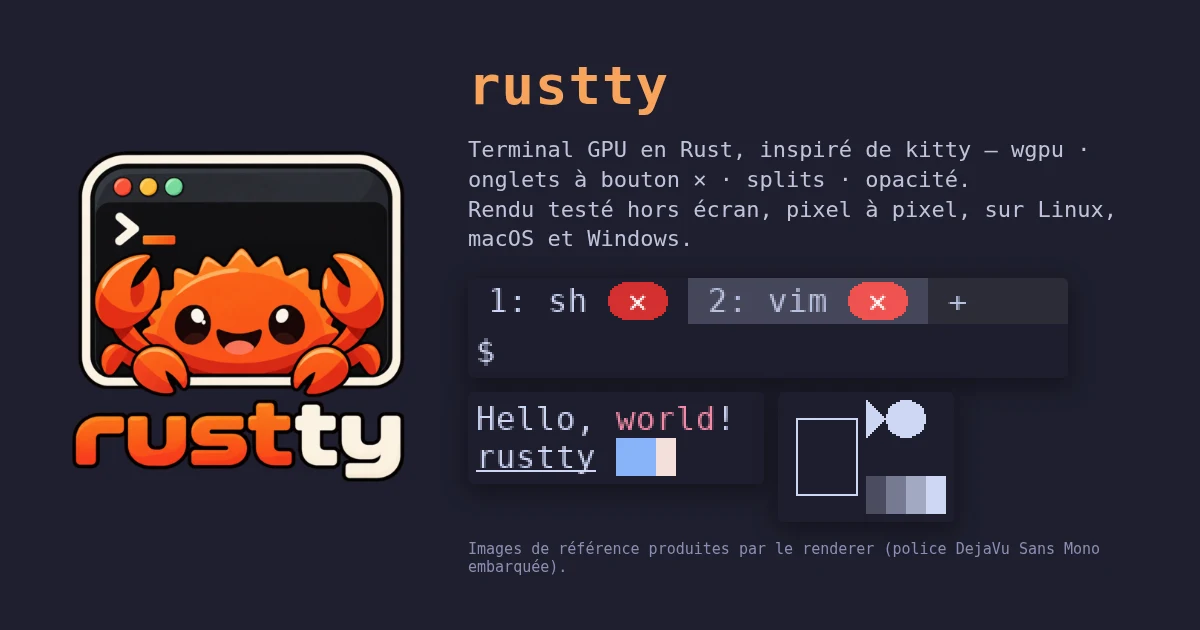
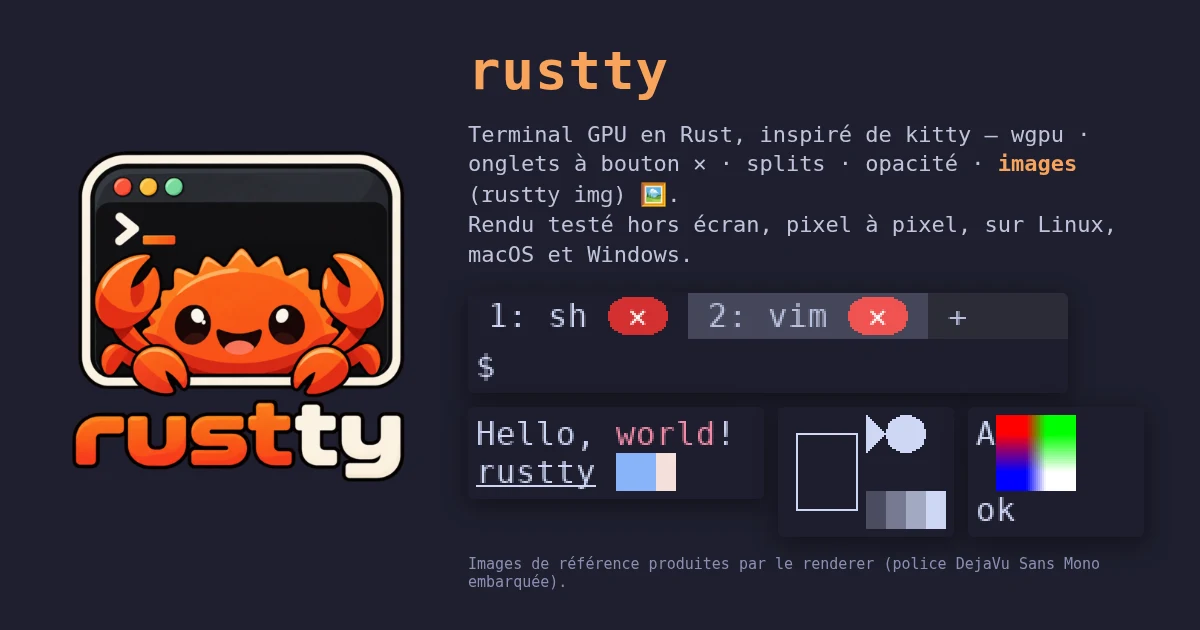
Vitrine : rustty gagne les images (protocole graphique kitty) et une capture fraîche

diff --git a/index.html b/index.html
@@ -971,9 +971,9 @@
           </div>
           <span class="fc-lang lang-rust"><span class="lang-dot"></span> Rust</span>
         </div>
-        <img class="fc-shot" src="shots/rustty.webp" alt="rustty — la mascotte crabe à côté des images de référence du renderer : barre d'onglets avec boutons ✕, Hello world, lignes de boîte et powerline" loading="lazy">
+        <img class="fc-shot" src="shots/rustty.webp" alt="rustty — la mascotte crabe à côté des images de référence du renderer : barre d'onglets avec boutons ✕, Hello world, lignes de boîte et powerline, et une image affichée par le protocole graphique kitty" loading="lazy">
         <div class="fc-title">rustty 🦀</div>
-        <div class="fc-desc">Émulateur de terminal GPU en Rust, inspiré de kitty — avec ce qui me manquait : des onglets à <strong>vrai bouton ✕</strong> (survol compris), des <strong>splits</strong> horizontaux et verticaux, l'<strong>opacité</strong> du fond et une config <strong>TOML</strong>. Cinq crates pures en TDD : émulation VT avec scrollback, arbre d'onglets et de divisions, config, pty et un renderer <strong>wgpu</strong> (polices, glyphes procéduraux, atlas) dont les <strong>images de référence sont comparées pixel à pixel hors écran</strong> sur Linux, macOS et Windows. Et la fenêtre est là : onglets renommables et colorés (ou couleurs tirées au sort), barres de split à glisser avec <strong>reflow du texte</strong> en direct, zoom de police par panneau (ctrl+molette), config rechargée à chaud, raccourcis redéfinissables et <strong>menu au clic droit</strong> (copier, coller, diviser, fermer le panneau) — <code>cargo install</code> et c'est parti 🦀.</div>
+        <div class="fc-desc">Émulateur de terminal GPU en Rust, inspiré de kitty — avec ce qui me manquait : des onglets à <strong>vrai bouton ✕</strong> (survol compris), des <strong>splits</strong> horizontaux et verticaux, l'<strong>opacité</strong> du fond et une config <strong>TOML</strong>. Cinq crates pures en TDD : émulation VT avec scrollback, arbre d'onglets et de divisions, config, pty et un renderer <strong>wgpu</strong> (polices, glyphes procéduraux, atlas) dont les <strong>images de référence sont comparées pixel à pixel hors écran</strong> sur Linux, macOS et Windows. Et la fenêtre est là : onglets renommables et colorés (ou couleurs tirées au sort), barres de split à glisser avec <strong>reflow du texte</strong> en direct, zoom de police par panneau (ctrl+molette), config rechargée à chaud, raccourcis redéfinissables et <strong>menu au clic droit</strong> (copier, coller, diviser, fermer le panneau). Et maintenant des <strong>images dans le terminal</strong> 🖼 via le protocole graphique kitty : <code>rustty img photo.jpg</code> ou une URL, et l'image défile avec le texte — <code>cargo install</code> et c'est parti 🦀.</div>
         <div class="fc-tags">
           <span class="fc-tag">terminal</span>
           <span class="fc-tag">wgpu</span>
